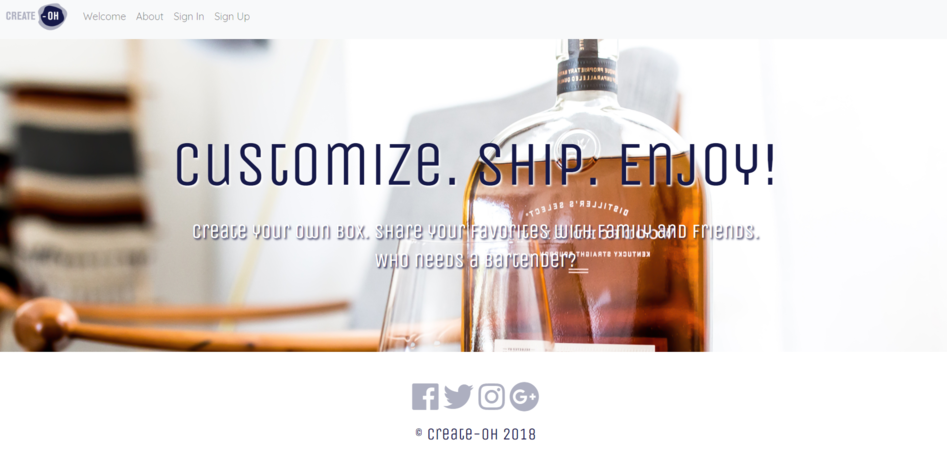
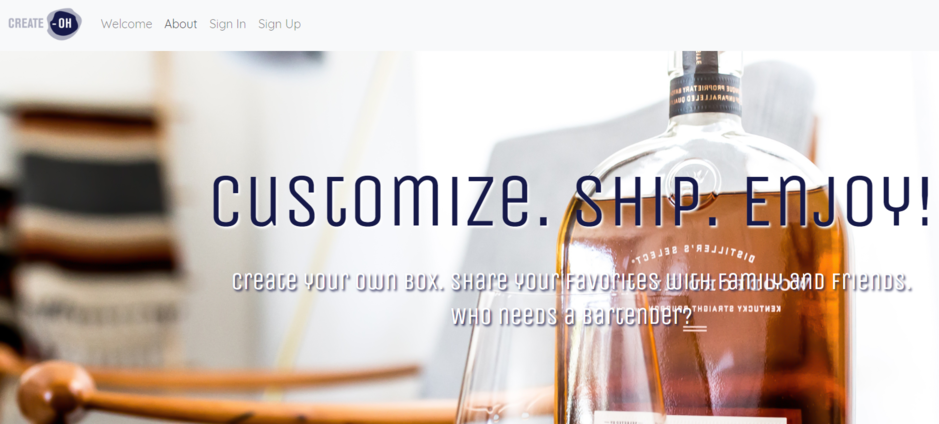
about/home page complete

diff --git a/index.html b/index.html
@@ -55,6 +55,7 @@
       </div>
     </div>
   </nav>
+  <hr id="navHR">
 
   <!-- Page Content -->
   <div class="jumbotron text-center" align="center" id="aboutMe">
@@ -62,21 +63,29 @@
       <div class="col-md-6">
         <img class="rounded-circle" src="./img/tarahperry.jpg" alt="Tarah Perry" id="tarah">
       </div>
-      <div class="col-md-6">
-        <h1>About me</h1>
-        <p>Me me me me me
+      <div class="col-md-6" id="bio">
+        <h3 id="bioTitle">About me</h3>
+        <hr>
+        <p id="bioText">Hi there! My name is Tarah Perry (AKA: Tarah Dactyl) and I'm a web developer, cave geek, and outdoor enthusiast.
+          I love to build (web applications, tables, legos, fires, etc), and I love learning how to build better. I graduated
+          from Southwestern Unversity in May 2013 with a B.S. in Geo Physics. I grew up just east of Austin, TX, and have
+          an affinity for tiny home livin', food trucks, and live music. Away from the desk chair I can be found hiking,
+          bouldering at the gym, at my favorite neighborhood pub, or making myself some delicious Tom Kha.
         </p>
       </div>
     </div>
   </div>
 
-  <header>
-    <div class="row text-center">
-      <div class="col-md-12">
-        <h1>Projects</h1>
-        <p>Click Left or right to scroll.</p>
-      </div>
+  <hr>
+  <div class="row text-center">
+    <div class="col-md-12">
+      <h3>Projects</h3>
+      <p>Click Left or right to scroll.</p>
     </div>
+  </div>
+  <hr>
+
+  <header>
 
     <div id="carouselExampleIndicators" class="carousel slide" data-ride="carousel">
       <ol class="carousel-indicators">
@@ -89,10 +98,12 @@
         <!-- Slide one - Set the background image for this slide in the line below -->
         <div class="carousel-item active" id="createoh">
           <div class="row" align="center">
-            <div class="col-md-12">
-              <img src="./img/createoh.png">
-              <h3>Create-OH</h3>
-              <p>About</p>
+            <div class="col-md-3 aboutCol">
+              <h3 class="portfolioTitle">Create-OH</h3>
+              <p class="portfolioText">About</p>
+            </div>
+            <div class="col-md-9 projectImg">
+              <img src="./img/createoh.png" id="createohImg">
               <a href="https://create-oh.herokuapp.com/welcome">
                 <button type="button" class="btn btn-lg">
                   Check it out
@@ -105,10 +116,12 @@
         <!-- Slide Two - Set the background image for this slide in the line below -->
         <div class="carousel-item" id="icebreakers">
           <div class="row" align="center">
-            <div class="col-md-12">
-              <img src="./img/icebreakers.png">
-              <h3>IceBreakers</h3>
-              <p>About</p>
+            <div class="col-md-3 aboutCol">
+              <h3 class="portfolioTitle">IceBreakers</h3>
+              <p class="portfolioText">About</p>
+            </div>
+            <div class="col-md-9 projectImg">
+              <img src="./img/icebreakers.png" id="icebreakersImg">
               <a href="https://icebreakernu.herokuapp.com/">
                 <button type="button" class="btn btn-lg">
                   Check it out
@@ -121,10 +134,12 @@
         <!-- Slide Three - Set the background image for this slide in the line below -->
         <div class="carousel-item" id="succor">
           <div class="row" align="center">
-            <div class="col-md-12">
-              <img src="./img/succor.png">
-              <h3>Succor</h3>
-              <p>About</p>
+            <div class="col-md-3 aboutCol">
+              <h3 class="portfolioTitle">Succor</h3>
+              <p class="portfolioText">About</p>
+            </div>
+            <div class="col-md-9 projectImg">
+              <img src="./img/succor.png" id="succorImg">
               <a href="https://tarahform.github.io/Project-1/">
                 <button type="button" class="btn btn-lg">
                   Check it out
@@ -146,6 +161,7 @@
     </div>
   </header>
 
+  <hr>
 
   <!-- Footer -->
   <footer class="py-5 bg-light text-center">
@@ -166,7 +182,7 @@
           </a>
         </p>
       </div>
-      <p class="m-0">Copyright &copy; Tarah Perry 2018</p>
+      <p id="footerText" class="m-0">&copy; Tarah Perry 2018</p>
     </div>
     <!-- /.container -->
   </footer>

diff --git a/css/full-slider.css b/css/full-slider.css
@@ -1,15 +1,14 @@
-html {
+p, h1, h3 {
   font-family: 'Tajawal', sans-serif;
 }
 
-.carousel-item {
-  min-height: 500px;
-  background: no-repeat scroll;
-  background-position: center;
+#navHR {
+  margin-bottom: 20px;
 }
 
-#createoh, #succor, #icebreakers {
-  margin-bottom: 2%;
+.carousel-item {
+  background: no-repeat scroll;
+  background-position: center;
 }
 
 #professionalLinks {
@@ -17,11 +16,16 @@ html {
 }
 
 .fab {
-  color: rgb(173,175,192);
+  color:rgb(34,139,142);
 }
 
 #contactContainer {
   justify-content: center;
+}
+
+.aboutCol {
+  justify-content: center;
+  margin: auto;
 }
 
 iframe {
@@ -32,21 +36,70 @@ iframe {
   height: 100%;
 }
 
+.projectImg {
+  width: 500px;
+  height: auto;
+}
+
+#bio {
+  margin: auto;
+}
+
 #tarah {
-  height: 300px;
-  width: auto;
+  -webkit-filter: grayscale(100%); /* Safari 6.0 - 9.0 */
+  filter: grayscale(100%);
+}
+
+#tarah, #createohImg, #icebreakersImg, #succorImg {
+  max-width: 100%;
+  height: auto;
+  margin: auto;
 }
 
 #aboutMe {
   margin: 5%;
-  background: rgb(173,175,192);
-  border-radius: 15px 50px;
+  background: rgb(34,139,142);
+  border-radius: 20px 60px;
 }
 
 .btn {
-  background: rgb(173,175,192);
+  background: rgb(34,139,142);
+  position: absolute;
+  top: 50%;
+  left: 50%;
+  transform: translate(-50%, -50%);
+  -ms-transform: translate(-50%, -50%);
+  font-size: 16px;
+  padding: 12px 24px;
+  cursor: pointer;
+  color: rgb(109,205,204);
 }
 
+#bioText {
+ color: rgb(109,205,204);
+}
 
+#bioTitle {
+  color: rgb(109,205,204);
+}
 
+.portfolioTitle {
+ color: rgb(34,139,142);
+}
+
+.portfoliotext {
+  color: rgb(71,62,63);
+}
+
+#footerText {
+  color: rgb(109,205,204);
+}
+
+/* color pallet:
+darkcyan: rgb(34,139,142),
+mediumaquamarine: rgb(109,205,204),
+khaki: rgb(248,229,90),
+lightgreen: rgb(144,220,158),
+darkslategray: rgb(71,62,63)
+ */
 
